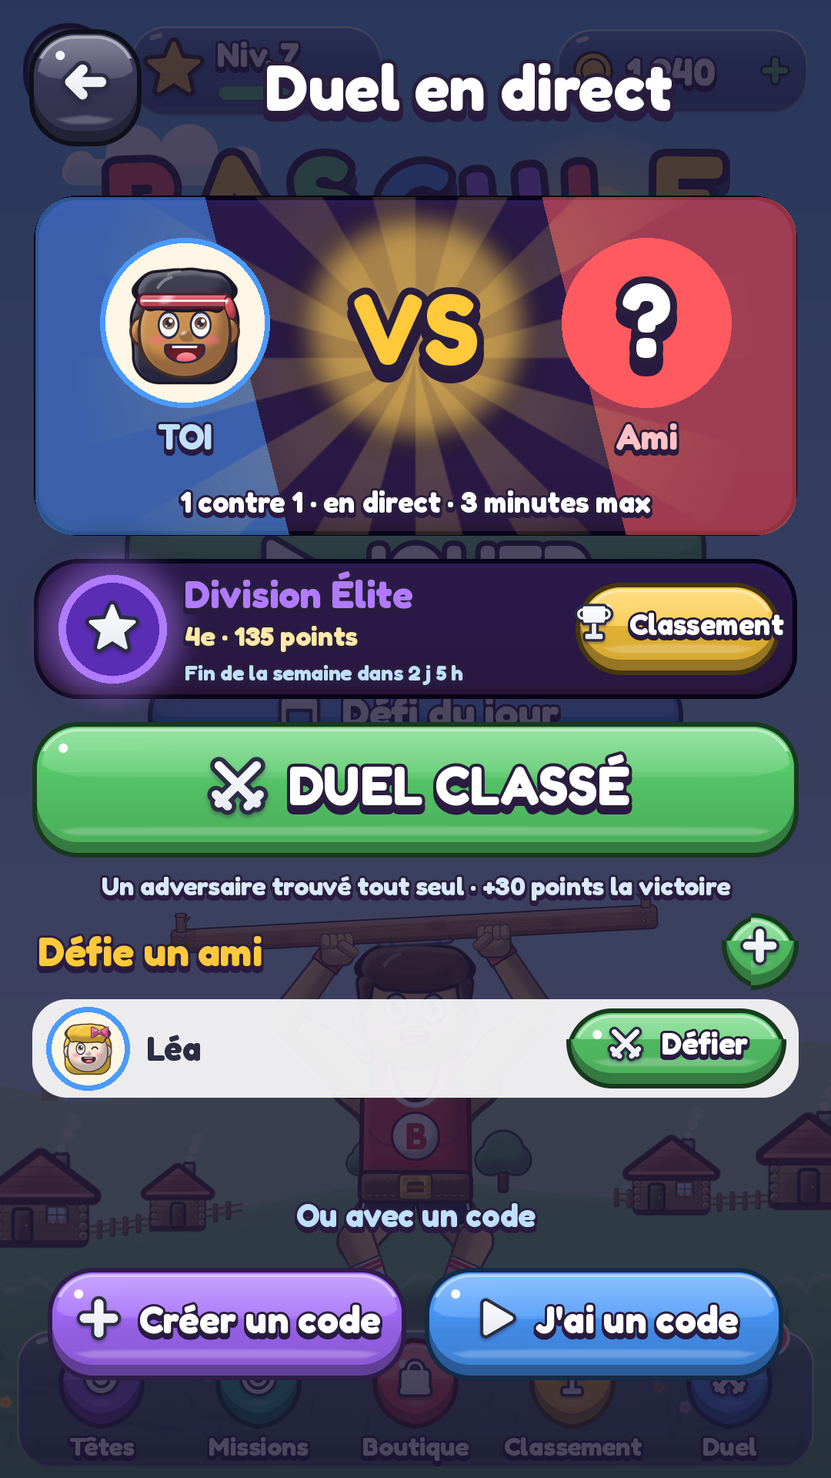
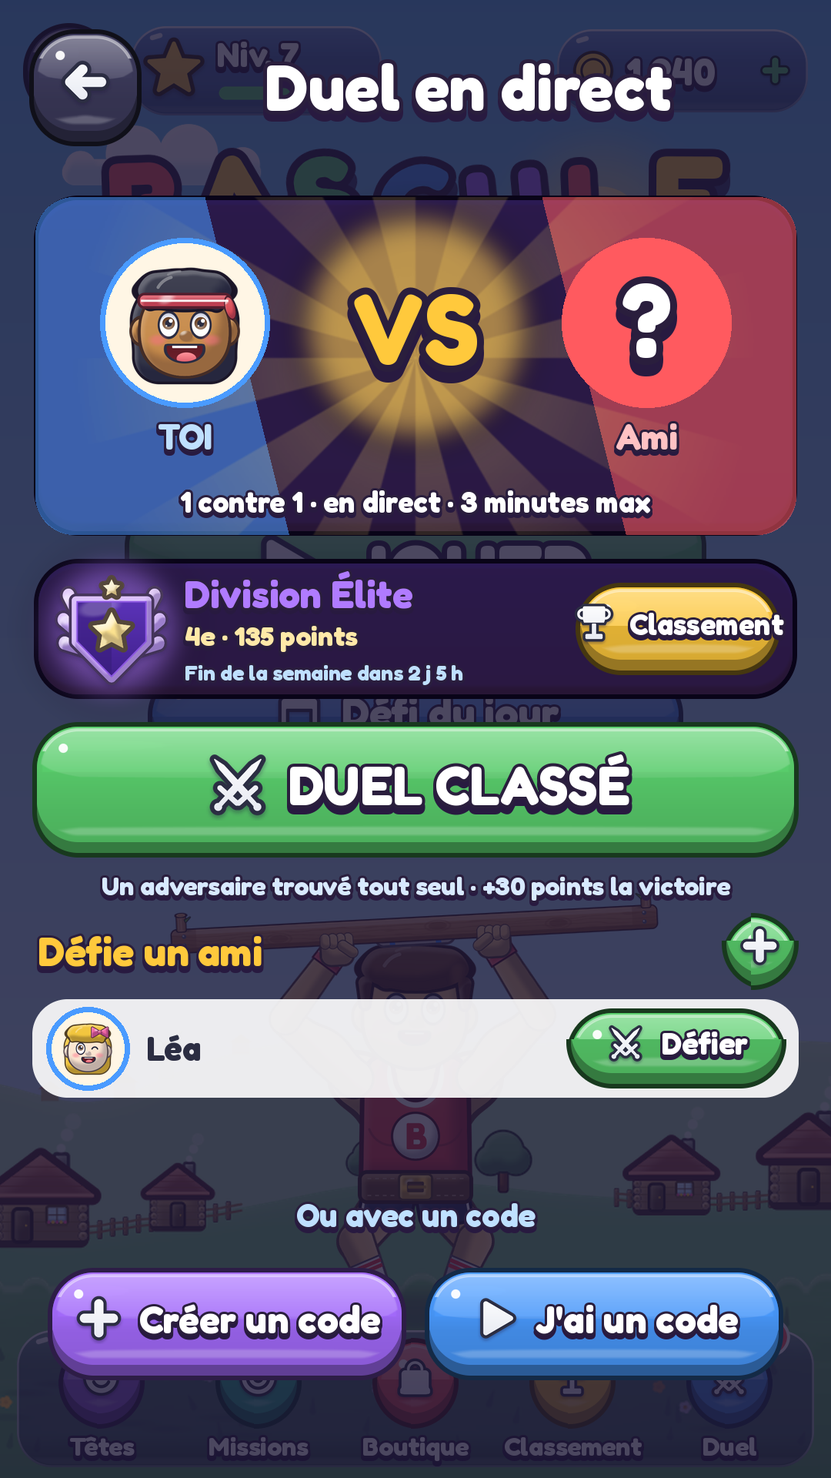
1.5 : profil d'un joueur et demande d'ami redessinés, blasons dans les écrans, maquettes à jour
- Profil : carte sombre à rayons, grand portrait, tuiles Place et Record, action du moment, Signaler / Bloquer
  discrets, croix pour fermer.
- Demande d'ami : les deux portraits reliés par un cœur, Accepter en grand, Refuser et Plus tard côte à côte.
- Les blasons des divisions remplacent les pastilles (écran Duel, Ligue, résultat, fin de semaine).

Claude-Session: https://claude.ai/code/session_01GjF5pVKpWLsxsJrgQmasFX

diff --git a/Assets/Bascule/Scripts/Runtime/UI/Screens.cs b/Assets/Bascule/Scripts/Runtime/UI/Screens.cs
@@ -2270,46 +2270,80 @@ namespace Bascule.UI
 
     /// <summary>Signaler un pseudo ou bloquer un joueur du classement (règle 1.2 de l'App Store).</summary>
     /// <summary>
-    /// Profil d'un joueur touché dans le classement : tête, pseudo, place et record ; selon le cas « Ajouter en ami »,
-    /// « Accepter / Refuser » sa demande, ou « Défier » et « Retirer des amis » ; toujours « Signaler » et « Bloquer »
-    /// (App Store, règle 1.2).
+    /// Profil d'un joueur touché dans le classement, dans le style de l'écran Duel : carte sombre, rayons, grand
+    /// portrait, pseudo, deux tuiles (place et record), puis l'action du moment (« Ajouter en ami », « Accepter /
+    /// Refuser », ou « Défier » et « Retirer des amis »). « Signaler » et « Bloquer » restent en bas, discrets
+    /// (App Store, règle 1.2). La croix en haut à droite ferme.
     /// </summary>
     public sealed class PlayerMenuScreen : UiScreen
     {
-        Text _title, _sub, _status;
+        Text _title, _status, _rank, _best;
         string _id, _name;
-        GameObject _unfriend, _duel, _add, _accept, _decline;
-        Image _card, _face;
-        const float Top = 560f, Bottom = 350f, RowStep = 160f;
+        GameObject _unfriend, _duel, _add, _accept, _decline, _statusPill;
+        Image _card, _face, _ring, _statusBack;
+        const float Top = 760f, Bottom = 190f, RowStep = 160f;
 
         protected override void Build()
         {
-            var card = Ui.Card(Safe, "Fenetre");
+            var card = Ui.Image(Safe, Art.Panel, ArtCache.Hex("#2B1B54"), "Fenetre", true);
             _card = card;
-            Ui.Place(card.rectTransform, 0.5f, 0.52f, 0, 0, 940, 1100);
+            Ui.Place(card.rectTransform, 0.5f, 0.52f, 0, 0, 940, 1110);
             card.gameObject.AddComponent<PopIn>();
-            _face = DuelUi.Portrait(card.transform, Palette.Primary, 240, "Portrait");
-            Ui.Place((RectTransform)_face.transform.parent, 0.5f, 1, 0, -170, 240, 240);
-            _title = Ui.Title(card.transform, "", 64, Palette.Ink);
-            Ui.Plain(_title);
-            Ui.Place(_title.rectTransform, 0.5f, 1, 0, -350, 860, 90);
-            _sub = Ui.Label(card.transform, "", 44, Palette.Muted);
-            Ui.Place(_sub.rectTransform, 0.5f, 1, 0, -430, 860, 64);
-            _status = Ui.Label(card.transform, "", 40, Palette.Secondary);
-            Ui.Place(_status.rectTransform, 0.5f, 1, 0, -494, 860, 56);
+            // Rayons et halo derrière le portrait, découpés aux coins de la carte.
+            var clip = DuelUi.Rounded(card.transform, Color.white, 52, "Decoupe");
+            Ui.Stretch(clip.rectTransform, 10, 10, 10, 10);
+            clip.gameObject.AddComponent<Mask>().showMaskGraphic = false;
+            var rays = Ui.Image(clip.transform, Art.Rays, new Color(1f, 0.85f, 0.4f, 0.26f), "Rayons");
+            Ui.Place(rays.rectTransform, 0.5f, 1, 0, -220, 1100, 1100);
+            rays.gameObject.AddComponent<Spin>().Speed = 10f;
+            Ui.Isolate(rays.gameObject);
+            var halo = Ui.Image(card.transform, Art.SoftDisc, new Color(1f, 0.8f, 0.3f, 0.5f), "Halo");
+            Ui.Place(halo.rectTransform, 0.5f, 1, 0, -220, 420, 420);
+            _face = DuelUi.Portrait(card.transform, Palette.Primary, 280, "Portrait");
+            _ring = _face.transform.parent.GetComponent<Image>();
+            Ui.Place((RectTransform)_face.transform.parent, 0.5f, 1, 0, -220, 280, 280);
+            _title = Ui.Title(card.transform, "", 70, Color.white);
+            Ui.Place(_title.rectTransform, 0.5f, 1, 0, -420, 860, 96);
+            // « Ton ami » / « Veut être ton ami », en pastille sous le pseudo.
+            var pill = Ui.Image(card.transform, Art.Pill, Palette.Secondary, "Statut", true);
+            _statusBack = pill;
+            _statusPill = pill.gameObject;
+            Ui.Place(pill.rectTransform, 0.5f, 1, 0, -502, 440, 62);
+            _status = Ui.Title(pill.transform, "", 34, Color.white);
+            Ui.Stretch(_status.rectTransform, 20, 2, 20, 0);
 
-            var cancel = Ui.Button(card.transform, Loc.Get("cancel"), Palette.Muted, Hide, Icon.Close, 50, "Fermer");
-            Ui.Place((RectTransform)cancel.transform, 0.5f, 0, 0, 110, 780, 130);
-            var report = Ui.Button(card.transform, Loc.Get("profile_report"), Palette.Dark, () => { Hide(); App.ReportPlayer(_id, _name); }, Icon.Flag, 42, "Signaler");
-            Ui.Place((RectTransform)report.transform, 0.5f, 0, -198, 262, 384, 120);
-            var block = Ui.Button(card.transform, Loc.Get("profile_block"), Palette.Dark, () => { Hide(); App.BlockPlayer(_id); }, Icon.Close, 42, "Bloquer");
-            Ui.Place((RectTransform)block.transform, 0.5f, 0, 198, 262, 384, 120);
+            // Deux tuiles : sa place et son record.
+            _rank = Tile(card.transform, -222, Loc.Get("profile_place"), Icon.Trophy, Palette.Accent);
+            _best = Tile(card.transform, 222, Loc.Get("profile_best"), Icon.Star, Palette.Secondary);
 
-            _unfriend = Ui.Button(card.transform, Loc.Get("friend_remove"), Palette.Secondary, () => { Hide(); App.RemoveFriend(_id); }, null, 50, "RetirerAmi").gameObject;
-            _duel = Ui.Button(card.transform, Loc.Get("duel_friend_challenge"), Palette.Play, () => { Hide(); App.ChallengeFriend(_id, _name); }, Icon.Swords, 52, "Defier").gameObject;
-            _add = Ui.Button(card.transform, Loc.Get("profile_add"), Palette.Play, () => { Hide(); App.AddFriendFromProfile(_id, _name); }, Icon.Plus, 52, "Ajouter").gameObject;
-            _accept = Ui.Button(card.transform, Loc.Get("freq_accept"), Palette.Play, () => { Hide(); App.AcceptFriendRequest(_id); }, Icon.Check, 52, "Accepter").gameObject;
-            _decline = Ui.Button(card.transform, Loc.Get("freq_decline"), Palette.Secondary, () => { Hide(); App.DeclineFriendRequest(_id); }, null, 50, "Refuser").gameObject;
+            var close = Ui.Button(card.transform, "", Palette.Dark, Hide, Icon.Close, 40, "Fermer");
+            Ui.Place((RectTransform)close.transform, 1, 1, -22, -22, 104, 104, 1, 1);
+            var report = Ui.Button(card.transform, Loc.Get("profile_report"), Palette.Dark, () => { Hide(); App.ReportPlayer(_id, _name); }, Icon.Flag, 38, "Signaler");
+            Ui.Place((RectTransform)report.transform, 0.5f, 0, -200, 100, 380, 110);
+            var block = Ui.Button(card.transform, Loc.Get("profile_block"), Palette.Dark, () => { Hide(); App.BlockPlayer(_id); }, Icon.Close, 38, "Bloquer");
+            Ui.Place((RectTransform)block.transform, 0.5f, 0, 200, 100, 380, 110);
+
+            _unfriend = Ui.Button(card.transform, Loc.Get("friend_remove"), Palette.Muted, () => { Hide(); App.RemoveFriend(_id); }, null, 46, "RetirerAmi").gameObject;
+            _duel = Ui.Button(card.transform, Loc.Get("duel_friend_challenge"), Palette.Play, () => { Hide(); App.ChallengeFriend(_id, _name); }, Icon.Swords, 56, "Defier").gameObject;
+            _add = Ui.Button(card.transform, Loc.Get("profile_add"), Palette.Play, () => { Hide(); App.AddFriendFromProfile(_id, _name); }, Icon.Plus, 56, "Ajouter").gameObject;
+            _accept = Ui.Button(card.transform, Loc.Get("freq_accept"), Palette.Play, () => { Hide(); App.AcceptFriendRequest(_id); }, Icon.Check, 56, "Accepter").gameObject;
+            _decline = Ui.Button(card.transform, Loc.Get("freq_decline"), Palette.Muted, () => { Hide(); App.DeclineFriendRequest(_id); }, null, 46, "Refuser").gameObject;
+        }
+
+        /// <summary>Tuile crème : pastille d'icône, petit libellé, grande valeur.</summary>
+        Text Tile(Transform card, float x, string label, Icon icon, Color tint)
+        {
+            var tile = Ui.Card(card, "Tuile");
+            Ui.Place(tile.rectTransform, 0.5f, 1, x, -640, 420, 150);
+            var dot = Ui.Image(tile.transform, Art.Circle, tint, "Pastille");
+            Ui.Place(dot.rectTransform, 0, 0.5f, 70, 0, 92, 92);
+            var ic = Ui.Icon(dot.transform, Art.IconSprite(icon), "Icone");
+            Ui.Stretch(ic.rectTransform, 18, 18, 18, 18);
+            var l = Ui.Plain(Ui.Label(tile.transform, label, 32, Palette.Muted, TextAnchor.MiddleLeft));
+            Ui.Place(l.rectTransform, 0, 0.5f, 136, 36, 270, 44, 0, 0.5f);
+            var v = Ui.Plain(Ui.Label(tile.transform, "", 54, Palette.Ink, TextAnchor.MiddleLeft));
+            Ui.Place(v.rectTransform, 0, 0.5f, 136, -20, 270, 70, 0, 0.5f);
+            return v;
         }
 
         public void Open(string playerId, string name, int head = 0, int rank = 0, int score = 0)
@@ -2319,11 +2353,14 @@ namespace Bascule.UI
             _name = string.IsNullOrEmpty(name) ? Loc.Get("lb_player") : name;
             _title.text = _name;
             _face.sprite = Art.Portrait(HeadCatalog.Get(head));
-            string record = score > 0 ? Loc.Format("profile_record", Loc.FormatScore(score)) : Loc.Get("profile_no_score");
-            _sub.text = rank > 0 && score > 0 ? Loc.Rank(rank) + " · " + record : record;
+            _rank.text = rank > 0 && score > 0 ? Loc.Rank(rank) : "–";
+            _best.text = score > 0 ? Loc.FormatScore(score) : "–";
             bool friend = App.Profile.friends.Contains(playerId);
             bool asked = !friend && App.PendingFriends.Contains(playerId);
+            _statusPill.SetActive(friend || asked);
             _status.text = friend ? Loc.Get("profile_friend") : asked ? Loc.Get("profile_wants") : "";
+            _statusBack.color = friend ? Palette.Secondary : Palette.Primary;
+            _ring.color = friend ? Palette.Secondary : Palette.Primary;
             // Boutons du cas présent, empilés au-dessus de « Signaler / Bloquer ».
             var rows = new List<GameObject>();
             if (friend) { rows.Add(_unfriend); if (App.DuelAvailable) rows.Add(_duel); }
@@ -2331,41 +2368,59 @@ namespace Bascule.UI
             else rows.Add(_add);
             foreach (var go in new[] { _unfriend, _duel, _add, _accept, _decline }) go.SetActive(rows.Contains(go));
             for (int i = 0; i < rows.Count; i++)
-                Ui.Place((RectTransform)rows[i].transform, 0.5f, 0, 0, Bottom + 70 + i * RowStep, 780, 140);
+                Ui.Place((RectTransform)rows[i].transform, 0.5f, 0, 0, Bottom + 74 + i * RowStep, 800, 146);
             _card.rectTransform.sizeDelta = new Vector2(940, Top + Bottom + rows.Count * RowStep);
         }
     }
 
-    /// <summary>Demande d'ami reçue (fenêtre sur les menus) : Accepter, Refuser, ou Plus tard (elle reste dans Classement → Amis).</summary>
+    /// <summary>
+    /// Demande d'ami reçue (fenêtre sur les menus), dans le style de l'invitation au duel : son portrait et le mien,
+    /// reliés par un cœur qui bat, puis Accepter, Refuser ou Plus tard (elle reste dans Classement → Amis).
+    /// </summary>
     public sealed class FriendRequestScreen : UiScreen
     {
         Text _title;
-        Image _face;
+        Image _theirs, _mine;
         string _id;
 
         protected override void Build()
         {
-            var card = Ui.Card(Safe, "Fenetre");
-            Ui.Place(card.rectTransform, 0.5f, 0.52f, 0, 0, 940, 1120);
+            var card = Ui.Image(Safe, Art.Panel, ArtCache.Hex("#2B1B54"), "Fenetre", true);
+            Ui.Place(card.rectTransform, 0.5f, 0.52f, 0, 0, 960, 1160);
             card.gameObject.AddComponent<PopIn>();
-            _face = DuelUi.Portrait(card.transform, Palette.Secondary, 260, "Portrait");
-            Ui.Place((RectTransform)_face.transform.parent, 0.5f, 1, 0, -190, 260, 260);
-            _face.transform.parent.gameObject.AddComponent<Rock>().Angle = 4f;
-            var heart = Ui.Icon(card.transform, Art.IconSprite(Icon.Heart), "Coeur");
+            var clip = DuelUi.Rounded(card.transform, Color.white, 52, "Decoupe");
+            Ui.Stretch(clip.rectTransform, 10, 10, 10, 10);
+            clip.gameObject.AddComponent<Mask>().showMaskGraphic = false;
+            var rays = Ui.Image(clip.transform, Art.Rays, new Color(1f, 0.55f, 0.7f, 0.3f), "Rayons");
+            Ui.Place(rays.rectTransform, 0.5f, 1, 0, -300, 1300, 1300);
+            rays.gameObject.AddComponent<Spin>().Speed = 12f;
+            Ui.Isolate(rays.gameObject);
+            _theirs = DuelUi.Portrait(card.transform, Palette.Primary, 270, "Ami");
+            Ui.Place((RectTransform)_theirs.transform.parent, 0.5f, 1, -205, -300, 270, 270);
+            _theirs.transform.parent.gameObject.AddComponent<Rock>().Angle = 4f;
+            _mine = DuelUi.Portrait(card.transform, Palette.Secondary, 230, "Moi");
+            Ui.Place((RectTransform)_mine.transform.parent, 0.5f, 1, 225, -320, 230, 230);
+            // Le cœur entre les deux portraits.
+            var glow = Ui.Image(card.transform, Art.SoftDisc, new Color(1f, 0.45f, 0.6f, 0.7f), "Halo");
+            Ui.Place(glow.rectTransform, 0.5f, 1, 20, -330, 240, 240);
+            var disc = Ui.Image(card.transform, Art.Circle, Color.white, "Pastille");
+            Ui.Place(disc.rectTransform, 0.5f, 1, 20, -330, 132, 132);
+            var heart = Ui.Icon(disc.transform, Art.IconSprite(Icon.Heart), "Coeur");
             heart.color = Palette.Primary;
-            Ui.Place(heart.rectTransform, 0.5f, 1, 120, -290, 96, 96);
-            heart.gameObject.AddComponent<Pulse>().Amount = 0.08f;
-            _title = Ui.Title(card.transform, "", 58, Palette.Ink);
-            Ui.Plain(_title);
-            Ui.Place(_title.rectTransform, 0.5f, 1, 0, -420, 860, 150);
-            var sub = Ui.Label(card.transform, Loc.Get("freq_sub"), 42, Palette.Muted);
-            Ui.Place(sub.rectTransform, 0.5f, 1, 0, -560, 840, 120);
-            var yes = Ui.Button(card.transform, Loc.Get("freq_accept"), Palette.Play, () => { Hide(); App.AcceptFriendRequest(_id); }, Icon.Check, 58, "Accepter");
-            Ui.Place((RectTransform)yes.transform, 0.5f, 0, 0, 380, 780, 160);
-            var no = Ui.Button(card.transform, Loc.Get("freq_decline"), Palette.Secondary, () => { Hide(); App.DeclineFriendRequest(_id); }, null, 50, "Refuser");
-            Ui.Place((RectTransform)no.transform, 0.5f, 0, 0, 220, 780, 130);
-            var later = Ui.Button(card.transform, Loc.Get("freq_later"), Palette.Muted, Hide, null, 46, "PlusTard");
-            Ui.Place((RectTransform)later.transform, 0.5f, 0, 0, 84, 520, 110);
+            Ui.Stretch(heart.rectTransform, 22, 24, 22, 20);
+            disc.gameObject.AddComponent<Pulse>().Amount = 0.09f;
+            Ui.Isolate(disc.gameObject);
+            _title = Ui.Title(card.transform, "", 62, Color.white);
+            Ui.Place(_title.rectTransform, 0.5f, 1, 0, -545, 880, 150);
+            var sub = Ui.Label(card.transform, Loc.Get("freq_sub"), 40, ArtCache.Hex("#D8E9FF"));
+            Ui.Place(sub.rectTransform, 0.5f, 1, 0, -676, 840, 110);
+            var yes = Ui.Button(card.transform, Loc.Get("freq_accept"), Palette.Play, () => { Hide(); App.AcceptFriendRequest(_id); }, Icon.Check, 62, "Accepter");
+            Ui.Place((RectTransform)yes.transform, 0.5f, 0, 0, 290, 820, 176);
+            yes.gameObject.AddComponent<Pulse>().Amount = 0.025f;
+            var no = Ui.Button(card.transform, Loc.Get("freq_decline"), Palette.Muted, () => { Hide(); App.DeclineFriendRequest(_id); }, Icon.Close, 44, "Refuser");
+            Ui.Place((RectTransform)no.transform, 0.5f, 0, -208, 110, 400, 124);
+            var later = Ui.Button(card.transform, Loc.Get("freq_later"), Palette.Dark, Hide, null, 44, "PlusTard");
+            Ui.Place((RectTransform)later.transform, 0.5f, 0, 208, 110, 400, 124);
         }
 
         public void Open(string playerId, string name, int head)
@@ -2374,7 +2429,8 @@ namespace Bascule.UI
             Root.SetAsLastSibling();
             _id = playerId;
             _title.text = Loc.Format("freq_title", name);
-            _face.sprite = Art.Portrait(HeadCatalog.Get(head));
+            _theirs.sprite = Art.Portrait(HeadCatalog.Get(head));
+            _mine.sprite = Art.Portrait(HeadCatalog.Get(App.Profile.selectedHead));
         }
     }
 

diff --git a/Tools/screens_preview_v15.py b/Tools/screens_preview_v15.py
@@ -35,17 +35,16 @@ MEDALS = ("#FFC93C", "#C9D3E3", "#E08A4F")
 
 
 def badge(img, box, d, halo=True):
-    """LeagueUi.MakeBadge : halo, disque foncé, anneau de la couleur de la division, symbole blanc."""
-    tint, deep, symbol, _ = DIV[d]
+    """LeagueUi.MakeBadge : le blason de la division (UiArtist.LeagueCrest) sur un halo de sa couleur."""
+    tint = DIV[d][0]
     l, t, r, b = box
     size = r - l
     if halo:
-        g = size * 0.25
-        glow(img, (l - g, t - g, r + g, b + g), sp.rgb(tint) + (115,), blur=int(size * 0.3))
-    disc(img, box, sp.rgb(deep))
-    ImageDraw.Draw(img).ellipse(box, outline=sp.rgb(tint), width=max(6, int(size * 0.075)))
-    k = size * 0.22
-    sp.tinted_icon(img, symbol, (l + k, t + k, r - k, b - k), "#FFFFFF")
+        g = size * 0.175
+        glow(img, (l - g, t - g, r + g, b + g), sp.rgb(tint) + (128,), blur=int(size * 0.3))
+    k = size * 0.08
+    crest = sp.load(f"ui/crest_{d}.png").resize((int(size + 2 * k), int(size + 2 * k)), Image.LANCZOS)
+    img.alpha_composite(crest, (int(l - k), int(t - k)))
 
 
 def league_card(img, box, d, line, reset):
@@ -215,7 +214,7 @@ def league_reward():
     badge(img, child(cb, 0.5, 1, 0, -420, 300, 300), 0)
     sp.title(img, "Division Légende", child(cb, 0.5, 1, 0, -660, 880, 90), 66, color=sp.rgb(DIV[0][0]))
     sp.title(img, "Tu finis 2e", child(cb, 0.5, 1, 0, -750, 880, 110), 46, color=SOFT)
-    pile = sp.load("ui/coins3.png") if os.path.exists(os.path.join(ART, "ui/coins3.png")) else None
+    pile = sp.load("ui/coins_3.png") if os.path.exists(os.path.join(ART, "ui/coins_3.png")) else None
     pb = child(cb, 0.5, 1, -250, -880, 130, 130)
     if pile is not None:
         img.alpha_composite(pile.resize((130, 130), Image.LANCZOS), (int(pb[0]), int(pb[1])))
@@ -245,38 +244,67 @@ def duel_result_ranked():
 
 # ============================================================================ Amis
 
-def player_profile():
+def night_card(img, cb, ray_center, ray_size, ray_color):
+    sp.card(img, cb, tint=hexc(NIGHT))
+    masked(img, cb, lambda layer: rays(layer, child(cb, 0.5, 1, 0, ray_center, ray_size, ray_size), ray_color))
+
+
+def tile(img, cb, x, label, value, icon, color):
+    tb = child(cb, 0.5, 1, x, -640, 420, 150)
+    sp.card(img, tb)
+    db = child(tb, 0, 0.5, 70, 0, 92, 92)
+    disc(img, db, c(color))
+    sp.tinted_icon(img, icon, (db[0] + 18, db[1] + 18, db[2] - 18, db[3] - 18), "#FFFFFF")
+    sp.title(img, label, child(tb, 0, 0.5, 136, 36, 270, 44, 0, 0.5), 32, color=MUTED, align="lm", outline=False)
+    sp.title(img, value, child(tb, 0, 0.5, 136, -20, 270, 70, 0, 0.5), 54, color=INK, align="lm", outline=False)
+
+
+def player_profile(friend=False):
     s = v14.leaderboard()
     img = s.img
-    img.alpha_composite(Image.new("RGBA", (W, H), (26, 20, 51, 150)))
-    rows = 1
-    cb = at(0.5, 0.52, 0, 0, 940, 560 + 350 + rows * 160)
-    sp.card(img, cb)
-    portrait(img, child(cb, 0.5, 1, 0, -170, 240, 240), c("Primary"), 40)
-    sp.title(img, "Pingouin", child(cb, 0.5, 1, 0, -350, 860, 90), 64, color=INK, outline=False)
-    sp.title(img, "4e · Record : 11 420", child(cb, 0.5, 1, 0, -430, 860, 64), 44, color=MUTED, outline=False)
-    sp.button(img, child(cb, 0.5, 0, 0, 420, 780, 140), "Play", "Ajouter en ami", "Plus", 52)
-    sp.button(img, child(cb, 0.5, 0, -198, 262, 384, 120), "Dark", "Signaler", "Flag", 42)
-    sp.button(img, child(cb, 0.5, 0, 198, 262, 384, 120), "Dark", "Bloquer", "Close", 42)
-    sp.button(img, child(cb, 0.5, 0, 0, 110, 780, 130), "Muted", "Annuler", "Close", 50)
+    img.alpha_composite(Image.new("RGBA", (W, H), (26, 20, 51, 170)))
+    rows = 2 if friend else 1
+    cb = at(0.5, 0.52, 0, 0, 940, 760 + 190 + rows * 160)
+    night_card(img, cb, -220, 1100, (255, 217, 102, 66))
+    glow(img, child(cb, 0.5, 1, 0, -220, 420, 420), (255, 204, 77, 128))
+    portrait(img, child(cb, 0.5, 1, 0, -220, 280, 280), c("Secondary" if friend else "Primary"), 14 if friend else 40)
+    sp.title(img, "Léa" if friend else "Pingouin", child(cb, 0.5, 1, 0, -420, 860, 96), 70)
+    if friend:
+        pb = child(cb, 0.5, 1, 0, -502, 440, 62)
+        sp.pill(img, pb, color=c("Secondary") + (255,))
+        sp.title(img, "Ton ami", pb, 34)
+    tile(img, cb, -222, "Place", "2e" if friend else "4e", "Trophy", "Accent")
+    tile(img, cb, 222, "Record", "15 200" if friend else "11 420", "Star", "Secondary")
+    sp.button(img, child(cb, 1, 1, -22, -22, 104, 104, 1, 1), "Dark", None, "Close", 40)
+    if friend:
+        sp.button(img, child(cb, 0.5, 0, 0, 190 + 74, 800, 146), "Muted", "Retirer des amis", None, 46)
+        sp.button(img, child(cb, 0.5, 0, 0, 190 + 74 + 160, 800, 146), "Play", "Défier", "Swords", 56)
+    else:
+        sp.button(img, child(cb, 0.5, 0, 0, 190 + 74, 800, 146), "Play", "Ajouter en ami", "Plus", 56)
+    sp.button(img, child(cb, 0.5, 0, -200, 100, 380, 110), "Dark", "Signaler", "Flag", 38)
+    sp.button(img, child(cb, 0.5, 0, 200, 100, 380, 110), "Dark", "Bloquer", "Close", 38)
     return s
 
 
 def friend_request():
     s = v14.backdrop(215)
     img = s.img
-    cb = at(0.5, 0.52, 0, 0, 940, 1120)
-    sp.card(img, cb)
-    portrait(img, child(cb, 0.5, 1, 0, -190, 260, 260), c("Secondary"), 14)
-    sp.tinted_icon(img, "Heart", child(cb, 0.5, 1, 120, -290, 96, 96), sp.COL["Primary"])
-    sp.title(img, "Léa veut t'ajouter en ami", child(cb, 0.5, 1, 0, -420, 860, 150), 58, color=INK, outline=False)
-    y = cb[1] + 520
-    for ln in v14.wrap(img, "Accepte pour voir ses scores et vous défier en duel.", 800, 42):
-        sp.title(img, ln, (cb[0] + 50, y, cb[2] - 50, y + 54), 42, color=MUTED, outline=False)
-        y += 56
-    sp.button(img, child(cb, 0.5, 0, 0, 380, 780, 160), "Play", "Accepter", "Check", 58)
-    sp.button(img, child(cb, 0.5, 0, 0, 220, 780, 130), "Secondary", "Refuser", None, 50)
-    sp.button(img, child(cb, 0.5, 0, 0, 84, 520, 110), "Muted", "Plus tard", None, 46)
+    cb = at(0.5, 0.52, 0, 0, 960, 1160)
+    night_card(img, cb, -300, 1300, (255, 140, 178, 76))
+    portrait(img, child(cb, 0.5, 1, -205, -300, 270, 270), c("Primary"), 14)
+    portrait(img, child(cb, 0.5, 1, 225, -320, 230, 230), c("Secondary"), 12)
+    glow(img, child(cb, 0.5, 1, 20, -330, 240, 240), (255, 115, 153, 178))
+    db = child(cb, 0.5, 1, 20, -330, 132, 132)
+    disc(img, db, (255, 255, 255))
+    sp.tinted_icon(img, "Heart", (db[0] + 22, db[1] + 24, db[2] - 22, db[3] - 20), sp.COL["Primary"])
+    sp.title(img, "Léa veut t'ajouter en ami", child(cb, 0.5, 1, 0, -545, 880, 150), 62)
+    y = cb[1] + 630
+    for ln in v14.wrap(img, "Accepte pour voir ses scores et vous défier en duel.", 800, 40):
+        sp.title(img, ln, (cb[0] + 50, y, cb[2] - 50, y + 52), 40, color=SOFT, outline=False)
+        y += 54
+    sp.button(img, child(cb, 0.5, 0, 0, 290, 820, 176), "Play", "Accepter", "Check", 62)
+    sp.button(img, child(cb, 0.5, 0, -208, 110, 400, 124), "Muted", "Refuser", "Close", 44)
+    sp.button(img, child(cb, 0.5, 0, 208, 110, 400, 124), "Dark", "Plus tard", None, 44)
     return s
 
 
@@ -285,12 +313,12 @@ if __name__ == "__main__":
     shots = {
         "duel_classe_entree": duel_choice(), "duel_classe_recherche": duel_search(), "duel_classe_fantome": duel_ghost_offer(),
         "duel_classe_resultat": duel_result_ranked(), "ligue_classement": league_screen(), "ligue_fin_semaine": league_reward(),
-        "profil_joueur": player_profile(), "demande_ami": friend_request(),
+        "profil_joueur": player_profile(), "profil_ami": player_profile(True), "demande_ami": friend_request(),
     }
     for name, s in shots.items():
         s.img.convert("RGB").save(os.path.join(OUT, f"ecran_{name}.png"))
     keys = list(shots)
-    for part, names in (("ecrans_duel_classe_1_5", keys[:4]), ("ecrans_ligue_amis_1_5", keys[4:])):
+    for part, names in (("ecrans_duel_classe_1_5", keys[:4]), ("ecrans_ligue_1_5", keys[4:6]), ("ecrans_amis_1_5", keys[6:])):
         strip = Image.new("RGB", (W * len(names) + 20 * (len(names) + 1), H + 40), (24, 22, 40))
         for i, k in enumerate(names):
             strip.paste(shots[k].img.convert("RGB"), (20 + i * (W + 20), 20))

diff --git a/Assets/Bascule/Scripts/Core/Loc.cs b/Assets/Bascule/Scripts/Core/Loc.cs
@@ -703,6 +703,8 @@ namespace Bascule.Core
             ["league_end_next"] = new[] { "Nouvelle semaine : tout le monde repart de zéro.", "New week: everyone starts from zero." },
             ["league_end_ok"] = new[] { "Super !", "Great!" },
             ["league_rule"] = new[] { "Victoire +{0} · Égalité +{1} · Défaite +{2} · Fantôme : +{3} / +{4} / +{5}", "Win +{0} · Draw +{1} · Loss +{2} · Ghost: +{3} / +{4} / +{5}" },
+            ["profile_place"] = new[] { "Place", "Rank" },
+            ["profile_best"] = new[] { "Record", "Best" },
             ["profile_add"] = new[] { "Ajouter en ami", "Add friend" },
             ["profile_friend"] = new[] { "Ton ami", "Your friend" },
             ["profile_wants"] = new[] { "Veut être ton ami", "Wants to be your friend" },

diff --git a/docs/LIGUES.md b/docs/LIGUES.md
@@ -9,7 +9,7 @@
 - **Lundi 00:00 UTC** (1 h ou 2 h du matin en France) : tout repart de zéro. Au premier lancement suivant : « Semaine terminée ! », la division, la place, et les pièces (500 / 250 / 100).
 - Pas de revanche en classé : « Nouveau duel classé » cherche un autre adversaire.
 
-Aperçus : `docs/apercu/ecrans_duel_classe_1_5.png`, `docs/apercu/ecrans_ligue_amis_1_5.png` (refaits par `python3 Tools/screens_preview_v15.py Exports/art docs/apercu`).
+Aperçus : `docs/apercu/ecrans_duel_classe_1_5.png`, `docs/apercu/ecrans_ligue_1_5.png`, `docs/apercu/ecrans_amis_1_5.png` (refaits par `python3 Tools/screens_preview_v15.py Exports/art docs/apercu`).
 
 ## À faire UNE FOIS dans le tableau de bord Unity (10 minutes)
 
